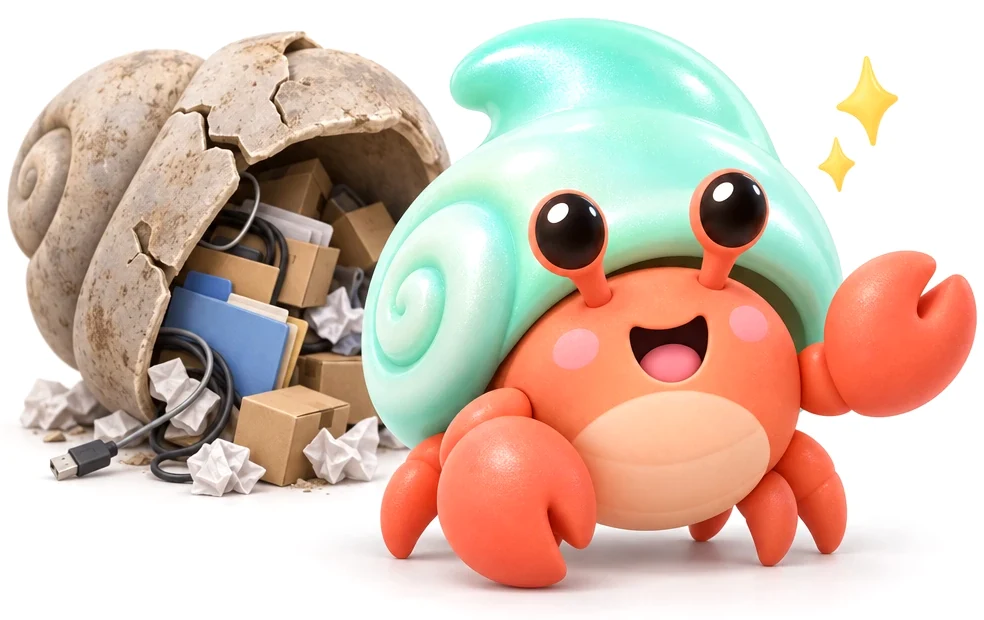
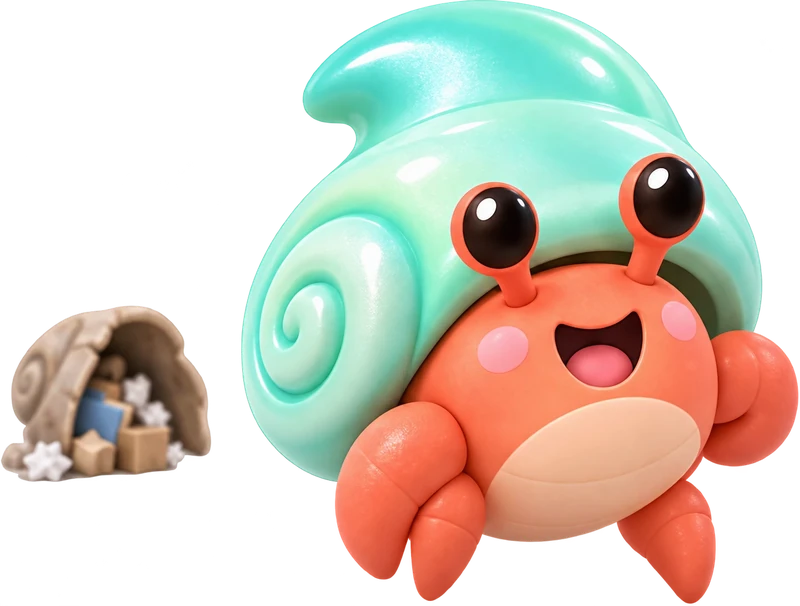
Use the new high resolution mascots everywhere; site polish
Transparent crab artwork in the app, website, README and social image, with
regenerated screenshots. Fix the demo toast overflowing on phones and the crab
lingering when the demo loop restarts; add a soft halo and small animations.

diff --git a/website/styles.css b/website/styles.css
@@ -29,6 +29,7 @@
     0 40px 80px -30px rgba(16, 24, 40, 0.3);
   --glow-1: #dde8fc;
   --glow-2: #e2f4ee;
+  --halo-opacity: 0.35;
   --btn-bg: #0e1014;
   --btn-ink: #ffffff;
   --quiet-bg: rgba(14, 16, 20, 0.05);
@@ -67,6 +68,7 @@
   --shadow-lg: 0 0 0 1px rgba(255, 255, 255, 0.07), 0 1px 0 rgba(255, 255, 255, 0.05) inset, 0 40px 80px -30px rgba(0, 0, 0, 0.85);
   --glow-1: rgba(52, 120, 246, 0.18);
   --glow-2: rgba(22, 163, 127, 0.1);
+  --halo-opacity: 0.2;
   --btn-bg: #f1f3f6;
   --btn-ink: #0e1014;
   --quiet-bg: rgba(255, 255, 255, 0.07);
@@ -102,6 +104,7 @@
     --shadow-lg: 0 0 0 1px rgba(255, 255, 255, 0.07), 0 1px 0 rgba(255, 255, 255, 0.05) inset, 0 40px 80px -30px rgba(0, 0, 0, 0.85);
     --glow-1: rgba(52, 120, 246, 0.18);
     --glow-2: rgba(22, 163, 127, 0.1);
+    --halo-opacity: 0.2;
     --btn-bg: #f1f3f6;
     --btn-ink: #0e1014;
     --quiet-bg: rgba(255, 255, 255, 0.07);
@@ -119,9 +122,6 @@
     --frame-bg: rgba(255, 255, 255, 0.05);
   }
 }
-
-/* The crab artwork has a white background. On light cards it disappears; on dark ones it reads as a white tile. */
-.mascot { border-radius: 14px; background: #fff; }
 
 *, *::before, *::after { box-sizing: border-box; }
 html { scroll-behavior: smooth; -webkit-text-size-adjust: 100%; }
@@ -163,6 +163,14 @@ svg { width: 20px; height: 20px; fill: none; stroke: currentColor; stroke-width:
 .pill svg { width: 18px; height: 18px; stroke-width: 2.2; }
 .pill-dark { background: var(--btn-bg); color: var(--btn-ink); box-shadow: 0 8px 20px -10px rgba(14, 16, 20, 0.6); }
 .pill-dark:hover { transform: translateY(-1px); box-shadow: 0 14px 28px -12px rgba(14, 16, 20, 0.6); }
+/* A band of light crosses the button on hover. */
+.pill-dark { position: relative; overflow: hidden; }
+.pill-dark::after {
+  content: ""; position: absolute; inset: 0; pointer-events: none;
+  background: linear-gradient(105deg, transparent 35%, rgba(130, 160, 255, 0.38) 50%, transparent 65%);
+  transform: translateX(-120%); transition: transform 0.7s var(--ease);
+}
+.pill-dark:hover::after { transform: translateX(120%); }
 .pill-light { background: var(--card); color: var(--ink); box-shadow: var(--shadow-sm); }
 .pill-light:hover { transform: translateY(-1px); }
 .pill-quiet { height: 34px; padding: 0 12px; font-size: 0.82rem; color: var(--muted); background: var(--quiet-bg); }
@@ -217,7 +225,19 @@ section[id] { scroll-margin-top: 70px; }
 /* The demo window: a miniature Molt that checks, cleans and celebrates on a loop */
 /* text-align: the hero centers its copy on small screens, but the window reads like the app: left aligned. */
 .demo { position: relative; padding-bottom: 46px; text-align: left; }
+/* One soft light behind the window; it brightens when the cleaning finishes. */
+.demo::before {
+  content: ""; position: absolute; inset: 2% 4% 12% 8%; border-radius: 50%; pointer-events: none;
+  background: linear-gradient(135deg, #8fe6d4, #9cc9ff);
+  filter: blur(48px); opacity: var(--halo-opacity);
+  transition: opacity 0.9s var(--ease);
+  animation: halo 7s ease-in-out infinite alternate;
+}
+.demo.is-clean::before { opacity: calc(var(--halo-opacity) + 0.15); }
+/* Grows toward the middle of the page, so it never widens the page at the screen's edge. */
+@keyframes halo { to { transform: translate(-2%, 2%) scale(1.06); } }
 .demo-window {
+  position: relative; z-index: 1;
   max-width: 500px; margin-left: auto; overflow: hidden;
   background: var(--card); border-radius: 22px; box-shadow: var(--shadow-lg);
 }
@@ -234,24 +254,26 @@ section[id] { scroll-margin-top: 70px; }
 .demo-bar { display: flex; height: 10px; margin-top: 10px; border-radius: 999px; background: var(--track); overflow: hidden; }
 .demo-bar span { height: 100%; transition: width 1.1s var(--ease); }
 .seg-used { width: 87%; background: var(--seg-used); }
-.seg-junk { width: 6%; background: linear-gradient(90deg, #ff8a5c, #f45f7c); }
+.seg-junk { width: 6%; background: linear-gradient(90deg, #ff8a5c, #f45f7c); animation: junk-pulse 1.8s ease-in-out infinite alternate; }
+@keyframes junk-pulse { to { opacity: 0.6; } }
 .demo.is-clean .seg-junk { width: 0; }
 .demo-list { position: relative; list-style: none; margin: 8px 0 0; padding: 0 10px; }
 .demo-empty {
   position: absolute; inset: 0; display: flex; flex-direction: column; align-items: center; justify-content: center; gap: 4px;
   font-size: 0.9rem; font-weight: 600; color: var(--muted);
-  opacity: 0; transform: scale(0.96); transition: opacity 0.5s var(--ease) 0.35s, transform 0.5s var(--ease) 0.35s;
+  opacity: 0; transform: scale(0.96); transition: opacity 0.18s ease, transform 0.18s ease;
   pointer-events: none;
 }
 .demo-empty img { width: 104px; height: auto; }
-.demo.is-clean .demo-empty { opacity: 1; transform: none; }
+/* Arrives after the rows have left, and leaves at once when the loop restarts. */
+.demo.is-clean .demo-empty { opacity: 1; transform: none; transition: opacity 0.5s var(--ease) 0.35s, transform 0.5s var(--ease) 0.35s; }
 .demo-row {
   display: grid; grid-template-columns: 22px 34px minmax(0, 1fr) auto 64px; align-items: center; gap: 10px;
   padding: 9px 8px; border-radius: 12px; font-size: 0.9rem;
-  transition: background 0.3s, opacity 0.45s var(--ease), transform 0.45s var(--ease);
+  transition: background 0.3s, opacity 0.45s var(--ease) 0.2s, transform 0.45s var(--ease) 0.2s;
 }
 .demo-row.is-checked { background: var(--checked-bg); }
-.demo.is-clean .demo-row { opacity: 0; transform: translateX(-24px); }
+.demo.is-clean .demo-row { opacity: 0; transform: translateX(-24px); transition-delay: 0s; }
 .demo-check {
   width: 20px; height: 20px; border-radius: 6px; display: grid; place-items: center;
   box-shadow: inset 0 0 0 1.5px var(--check-edge); color: #fff; transition: background 0.2s, box-shadow 0.2s;
@@ -278,7 +300,7 @@ section[id] { scroll-margin-top: 70px; }
 .demo-clean.is-pressed { transform: scale(0.95); }
 .demo-clean[aria-disabled="true"] { background: var(--disabled-bg); color: var(--disabled-ink); box-shadow: none; }
 .demo-toast {
-  position: absolute; left: 0; bottom: 0; display: flex; align-items: center; gap: 12px;
+  position: absolute; z-index: 2; left: 0; bottom: 0; display: flex; align-items: center; gap: 12px;
   padding: 10px 20px 10px 10px; border-radius: var(--r-lg); background: var(--card); box-shadow: var(--shadow-lg);
   opacity: 0; transform: translateY(14px) scale(0.96); transition: opacity 0.5s var(--ease), transform 0.5s var(--ease);
 }
@@ -287,6 +309,8 @@ section[id] { scroll-margin-top: 70px; }
 .demo-toast strong { font-size: 0.95rem; }
 .demo-toast span { font-size: 0.85rem; color: var(--safe); font-weight: 600; }
 .demo.is-done .demo-toast { opacity: 1; transform: none; }
+.demo.is-done .demo-toast img { animation: hop 0.7s var(--ease) 0.15s both; }
+@keyframes hop { 40% { transform: translateY(-9px) rotate(-5deg); } 70% { transform: translateY(0) rotate(3deg); } }
 
 .tag { display: inline-block; flex: none; padding: 3px 9px; border-radius: 999px; font-size: 0.72rem; font-weight: 700; letter-spacing: 0.01em; white-space: nowrap; }
 .tag-safe { color: var(--safe); background: rgba(22, 163, 127, 0.11); }
@@ -340,7 +364,8 @@ section[id] { scroll-margin-top: 70px; }
 .categories { display: grid; grid-template-columns: repeat(4, minmax(0, 1fr)); gap: 16px; }
 .category { padding: 22px; display: flex; flex-direction: column; gap: 8px; transition: transform 0.35s var(--ease), box-shadow 0.35s var(--ease); }
 .category:hover { transform: translateY(-3px); box-shadow: var(--shadow-lg); }
-.category .demo-icon { margin-bottom: 6px; }
+.category .demo-icon { margin-bottom: 6px; transition: transform 0.4s var(--ease); }
+.category:hover .demo-icon { transform: rotate(-7deg) scale(1.1); }
 .examples { list-style: none; margin: 2px 0 4px; padding: 0; display: flex; flex-wrap: wrap; gap: 5px; }
 .examples li {
   padding: 2px 8px; border-radius: 7px; background: var(--soft); box-shadow: inset 0 0 0 1px var(--line);
@@ -389,6 +414,8 @@ section[id] { scroll-margin-top: 70px; }
 .plan p { flex: 1; margin-bottom: 14px; color: var(--muted); }
 .plan .pill { width: 100%; height: 50px; }
 
+.section-crab { width: 104px; margin: 0 auto 14px; }
+
 /* Questions */
 .faq { max-width: 760px; margin: 0 auto; display: grid; gap: 10px; }
 .faq details { background: var(--card); border-radius: var(--r-lg); box-shadow: var(--shadow-sm); }
@@ -406,7 +433,8 @@ section[id] { scroll-margin-top: 70px; }
 
 /* Closing */
 .closing { padding: 32px 32px 52px; display: flex; flex-direction: column; align-items: center; gap: 22px; text-align: center; }
-.closing img { width: min(560px, 100%); padding: 20px 28px; border-radius: 24px; }
+.closing img { width: min(420px, 100%); animation: float 6s ease-in-out infinite alternate; }
+@keyframes float { to { transform: translateY(-8px); } }
 
 .footer {
   max-width: var(--max); margin: 100px auto 0; padding: 26px var(--gutter) 44px;
@@ -417,8 +445,8 @@ section[id] { scroll-margin-top: 70px; }
 .footer a:hover { color: var(--ink); }
 
 /* Entrances: each block rises once as it scrolls into view, staggered by --d */
-.reveal { opacity: 0; transform: translateY(24px); transition: opacity 0.8s var(--ease), transform 0.8s var(--ease); transition-delay: calc(var(--d, 0) * 80ms); }
-.reveal.visible { opacity: 1; transform: none; }
+.reveal { opacity: 0; transform: translateY(24px); filter: blur(8px); transition: opacity 0.8s var(--ease), transform 0.8s var(--ease), filter 0.8s var(--ease); transition-delay: calc(var(--d, 0) * 80ms); }
+.reveal.visible { opacity: 1; transform: none; filter: none; }
 
 /* Privacy and support pages */
 .page { max-width: 720px; margin: 0 auto; padding: 80px var(--gutter) 0; }
@@ -463,8 +491,8 @@ section[id] { scroll-margin-top: 70px; }
   .demo-icon { width: 30px; height: 30px; }
   .demo-icon svg { width: 16px; height: 16px; }
   .demo-clean { min-width: 0; }
-  .demo-toast { left: 50%; transform: translate(-50%, 14px) scale(0.96); white-space: nowrap; }
-  .demo.is-done .demo-toast { transform: translate(-50%, 0); }
+  /* Centered with margins: left: 50% would leave the card only half the width and the text would spill out. */
+  .demo-toast { right: 0; width: max-content; max-width: 100%; margin-inline: auto; }
   .fact, .step, .duo-card, .plan { padding: 24px; }
   .safety { padding: 24px; gap: 28px; }
   .level { flex-direction: column; gap: 8px; }
@@ -483,5 +511,5 @@ section[id] { scroll-margin-top: 70px; }
 @media (prefers-reduced-motion: reduce) {
   html { scroll-behavior: auto; }
   *, *::before, *::after { animation: none !important; transition: none !important; }
-  .reveal { opacity: 1; transform: none; }
+  .reveal { opacity: 1; transform: none; filter: none; }
 }

diff --git a/website/index.html b/website/index.html
@@ -117,7 +117,7 @@
               <span class="demo-size" data-gb="1.0">1.0 GB</span>
             </li>
             <li class="demo-empty">
-              <img class="mascot" src="/assets/crab-winking.webp" width="392" height="330" alt="">
+              <img src="/assets/crab-winking.webp?v=2" width="800" height="564" alt="">
               <span data-i18n="demo.empty">Nothing left to clean</span>
             </li>
           </ul>
@@ -127,7 +127,7 @@
           </div>
         </div>
         <div class="demo-toast">
-          <img class="mascot" src="/assets/crab-celebrating.webp" width="334" height="400" alt="">
+          <img src="/assets/crab-celebrating.webp?v=2" width="800" height="785" alt="">
           <div>
             <strong data-i18n="demo.done">All clean</strong>
             <span data-demo-freed>14.2 GB freed</span>
@@ -192,7 +192,7 @@
           <p data-i18n="step.clean.text">Remove what you checked. Anything that can't be rebuilt goes to the Trash first.</p>
           <div class="step-art">
             <div class="freed">
-              <img class="mascot" src="/assets/crab-winking.webp" width="392" height="330" alt="" loading="lazy">
+              <img src="/assets/crab-winking.webp?v=2" width="800" height="564" alt="" loading="lazy">
               <div><strong data-i18n="demo.done">All clean</strong><span data-i18n="step.clean.freed">14.2 GB freed</span></div>
             </div>
           </div>
@@ -331,6 +331,7 @@
     <!-- Pricing -->
     <section id="pricing" class="section">
       <div class="section-head reveal">
+        <img class="section-crab" src="/assets/crab-heart.webp" width="800" height="864" alt="" loading="lazy">
         <h2 data-i18n="pricing.title">Free to use. Yours to support.</h2>
       </div>
       <div class="plans">
@@ -377,8 +378,8 @@
     <!-- Closing -->
     <section class="section">
       <div class="card closing reveal">
-        <img class="mascot" src="/assets/mascot-scene.webp" width="984" height="620" loading="lazy"
-             alt="Molt the hermit crab leaving its old shell, full of boxes and cables, for a light new one" data-i18n-alt="closing.alt">
+        <img src="/assets/mascot-scene.webp?v=2" width="800" height="606" loading="lazy"
+             alt="Molt the hermit crab leaving its old shell, full of boxes, for a light new one" data-i18n-alt="closing.alt">
         <h2 data-i18n="closing.title">Give your Mac room to breathe.</h2>
         <a class="pill pill-dark pill-large" data-download href="https://github.com/omerayyildiz/Molt/releases/latest/download/Molt.dmg">
           <svg><use href="#i-download"/></svg><span data-i18n="closing.button">Download for free</span>

diff --git a/website/main.js b/website/main.js
@@ -103,7 +103,7 @@ const TURKISH = {
   "faq.4.a": "Hayır. Molt'ta analitik yok ve internete hiç istek göndermez. Temizlik geçmişin Mac'inde kalır.",
   "closing.title": "Mac'ine biraz nefes aldır.",
   "closing.button": "Ücretsiz indir",
-  "closing.alt": "Kutular ve kablolarla dolu eski kabuğunu bırakıp hafif yeni kabuğuna geçen keşiş yengeci Molt",
+  "closing.alt": "Kutularla dolu eski kabuğunu bırakıp hafif yeni kabuğuna geçen keşiş yengeci Molt",
   "theme.toDark": "Koyu temaya geç",
   "theme.toLight": "Açık temaya geç",
   "footer.privacy": "Gizlilik",
@@ -246,6 +246,8 @@ const demo = (() => {
       await wait(2800);
       root.classList.remove("is-done");
       await wait(500);
+      root.classList.remove("is-clean");
+      await countFree(state.free, startFree, 900);
     }
   }
 

diff --git a/scripts/frame-images.py b/scripts/frame-images.py
@@ -44,11 +44,8 @@ for source, name in (("1-overview", "overview"), ("2-projects", "projects"), ("4
     framed(Image.open(SHOTS / "light-en" / f"{source}.png"), radius=24, margin=80).save(DOCS / f"{name}.png", optimize=True)
     print(f"docs/images/{name}.png")
 
-# README: the crab scene on a white card instead of a cut-out.
-scene = Image.open(WEB / "mascot-scene.webp").convert("RGB")
-card = Image.new("RGB", (scene.width + 160, scene.height + 100), (255, 255, 255))
-card.paste(scene, (80, 50))
-framed(card, radius=44, margin=70).resize((760, round(760 * (card.height + 140) / (card.width + 140))), Image.LANCZOS).save(DOCS / "mascot.png", optimize=True)
+# README: the crab scene, transparent so it sits on GitHub's light and dark pages.
+Image.open(WEB / "mascot-scene.webp").save(DOCS / "mascot.png", optimize=True)
 print("docs/images/mascot.png")
 
 # Website: plain screens (the page draws its own frame), both languages, both themes.

diff --git a/README.md b/README.md
@@ -21,7 +21,7 @@
 </p>
 
 <p align="center">
-  <img src="docs/images/mascot.png" width="420" alt="Molt the hermit crab leaving its old shell, full of boxes and cables, for a light new one">
+  <img src="docs/images/mascot.png" width="420" alt="Molt the hermit crab leaving its old shell, full of boxes, for a light new one">
 </p>
 
 `node_modules`, Xcode build data, package caches and AI models pile up quietly, and macOS files them under
